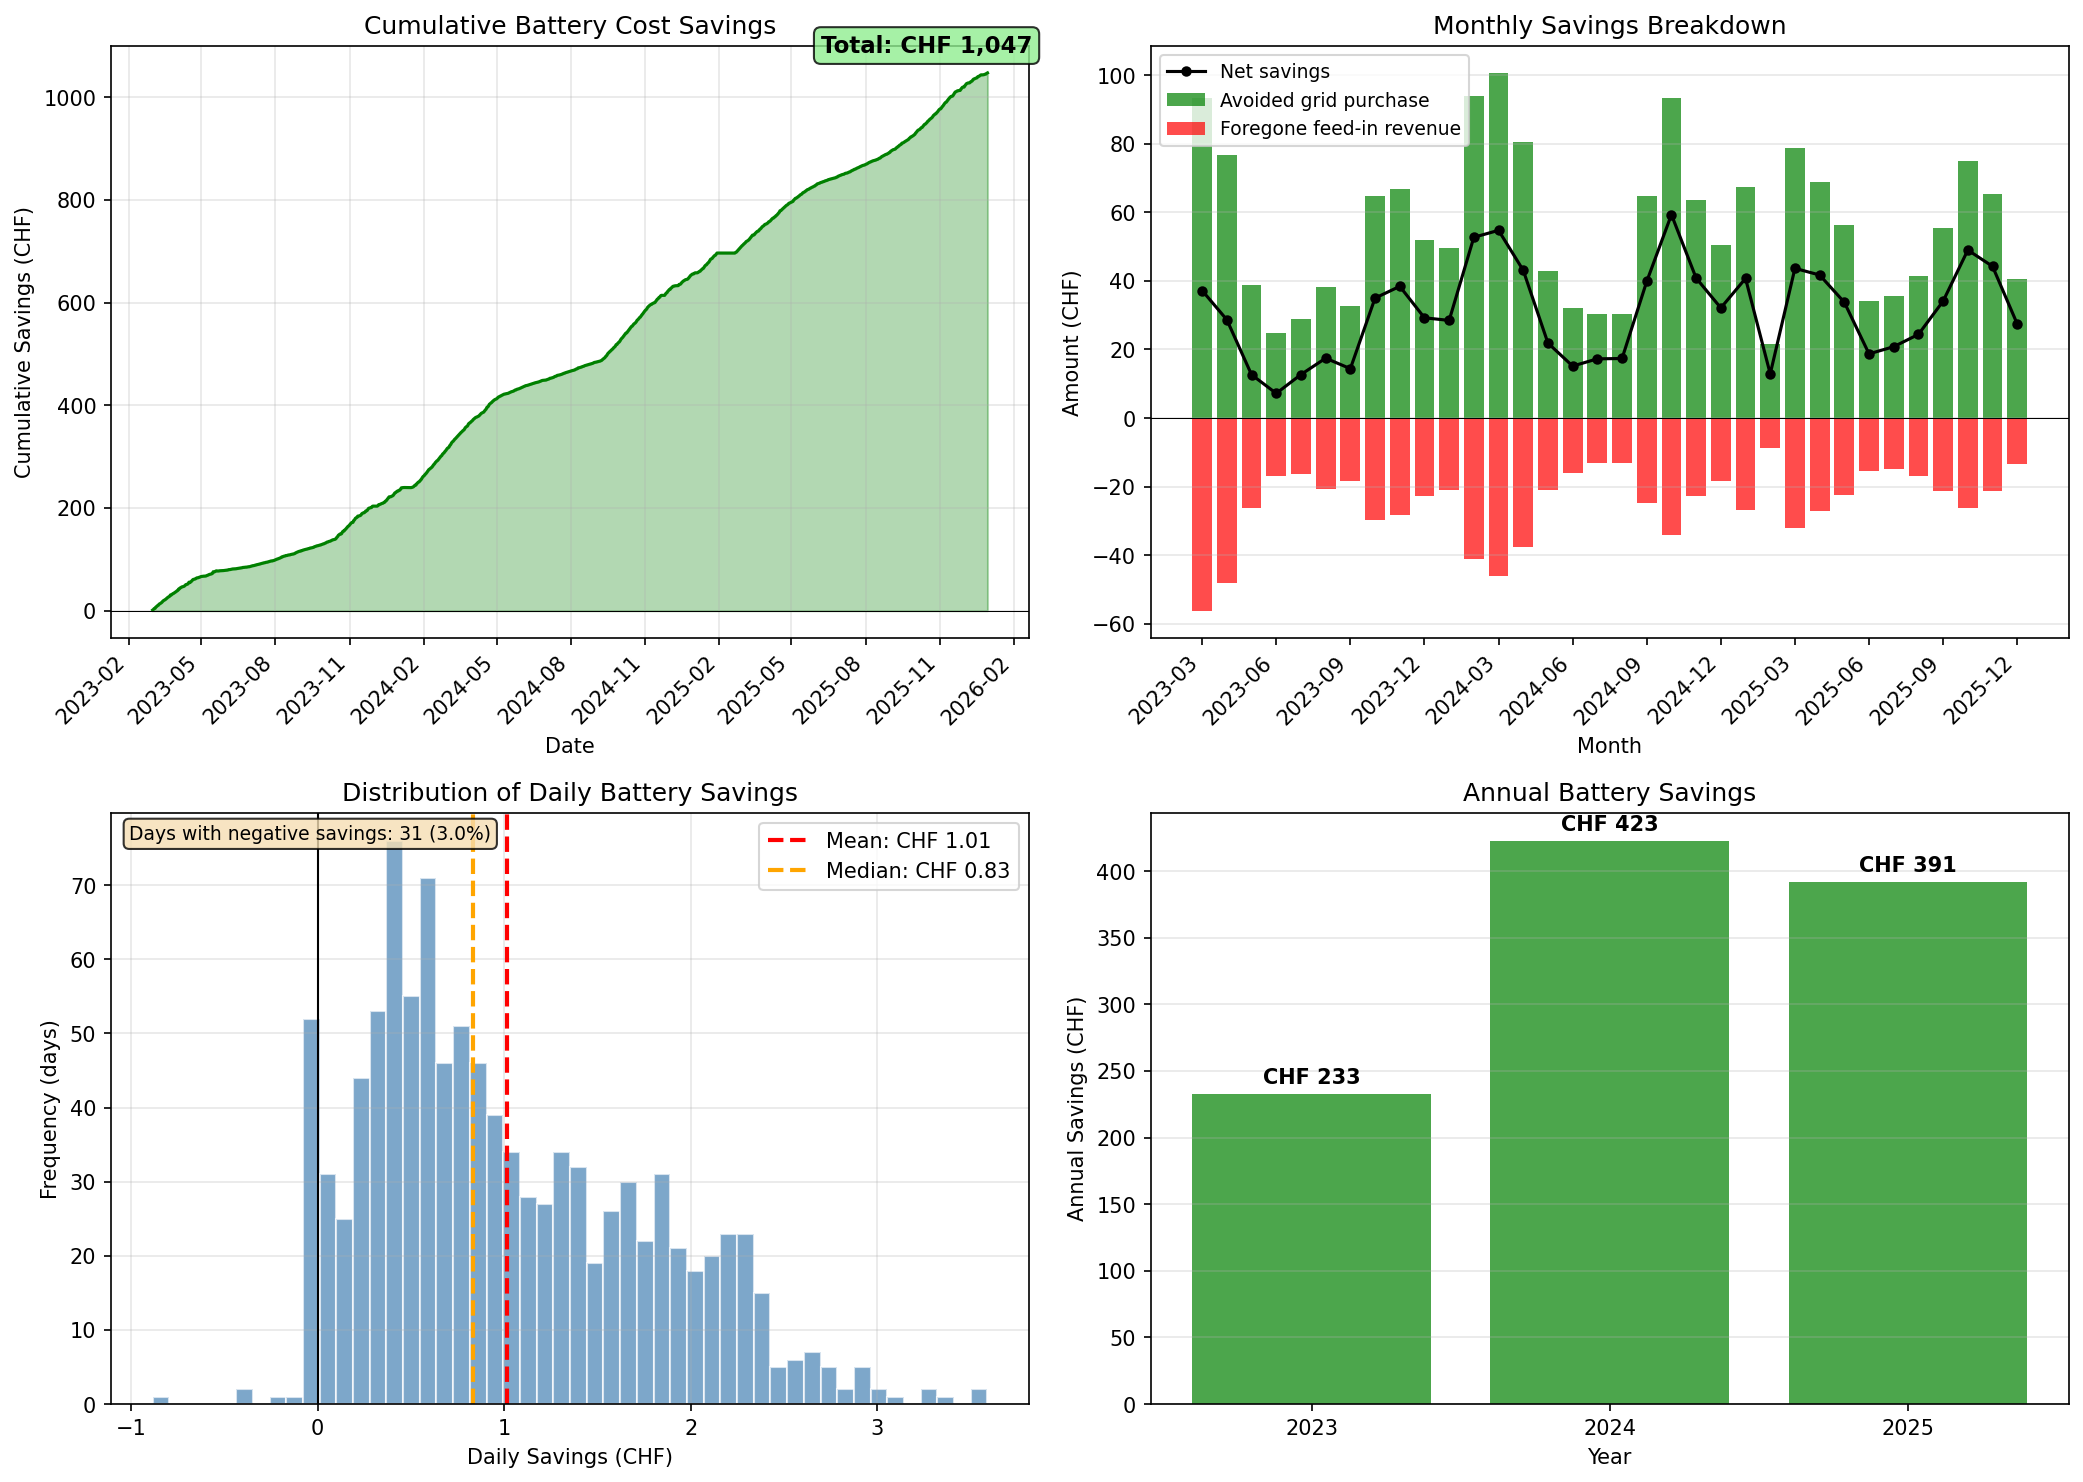
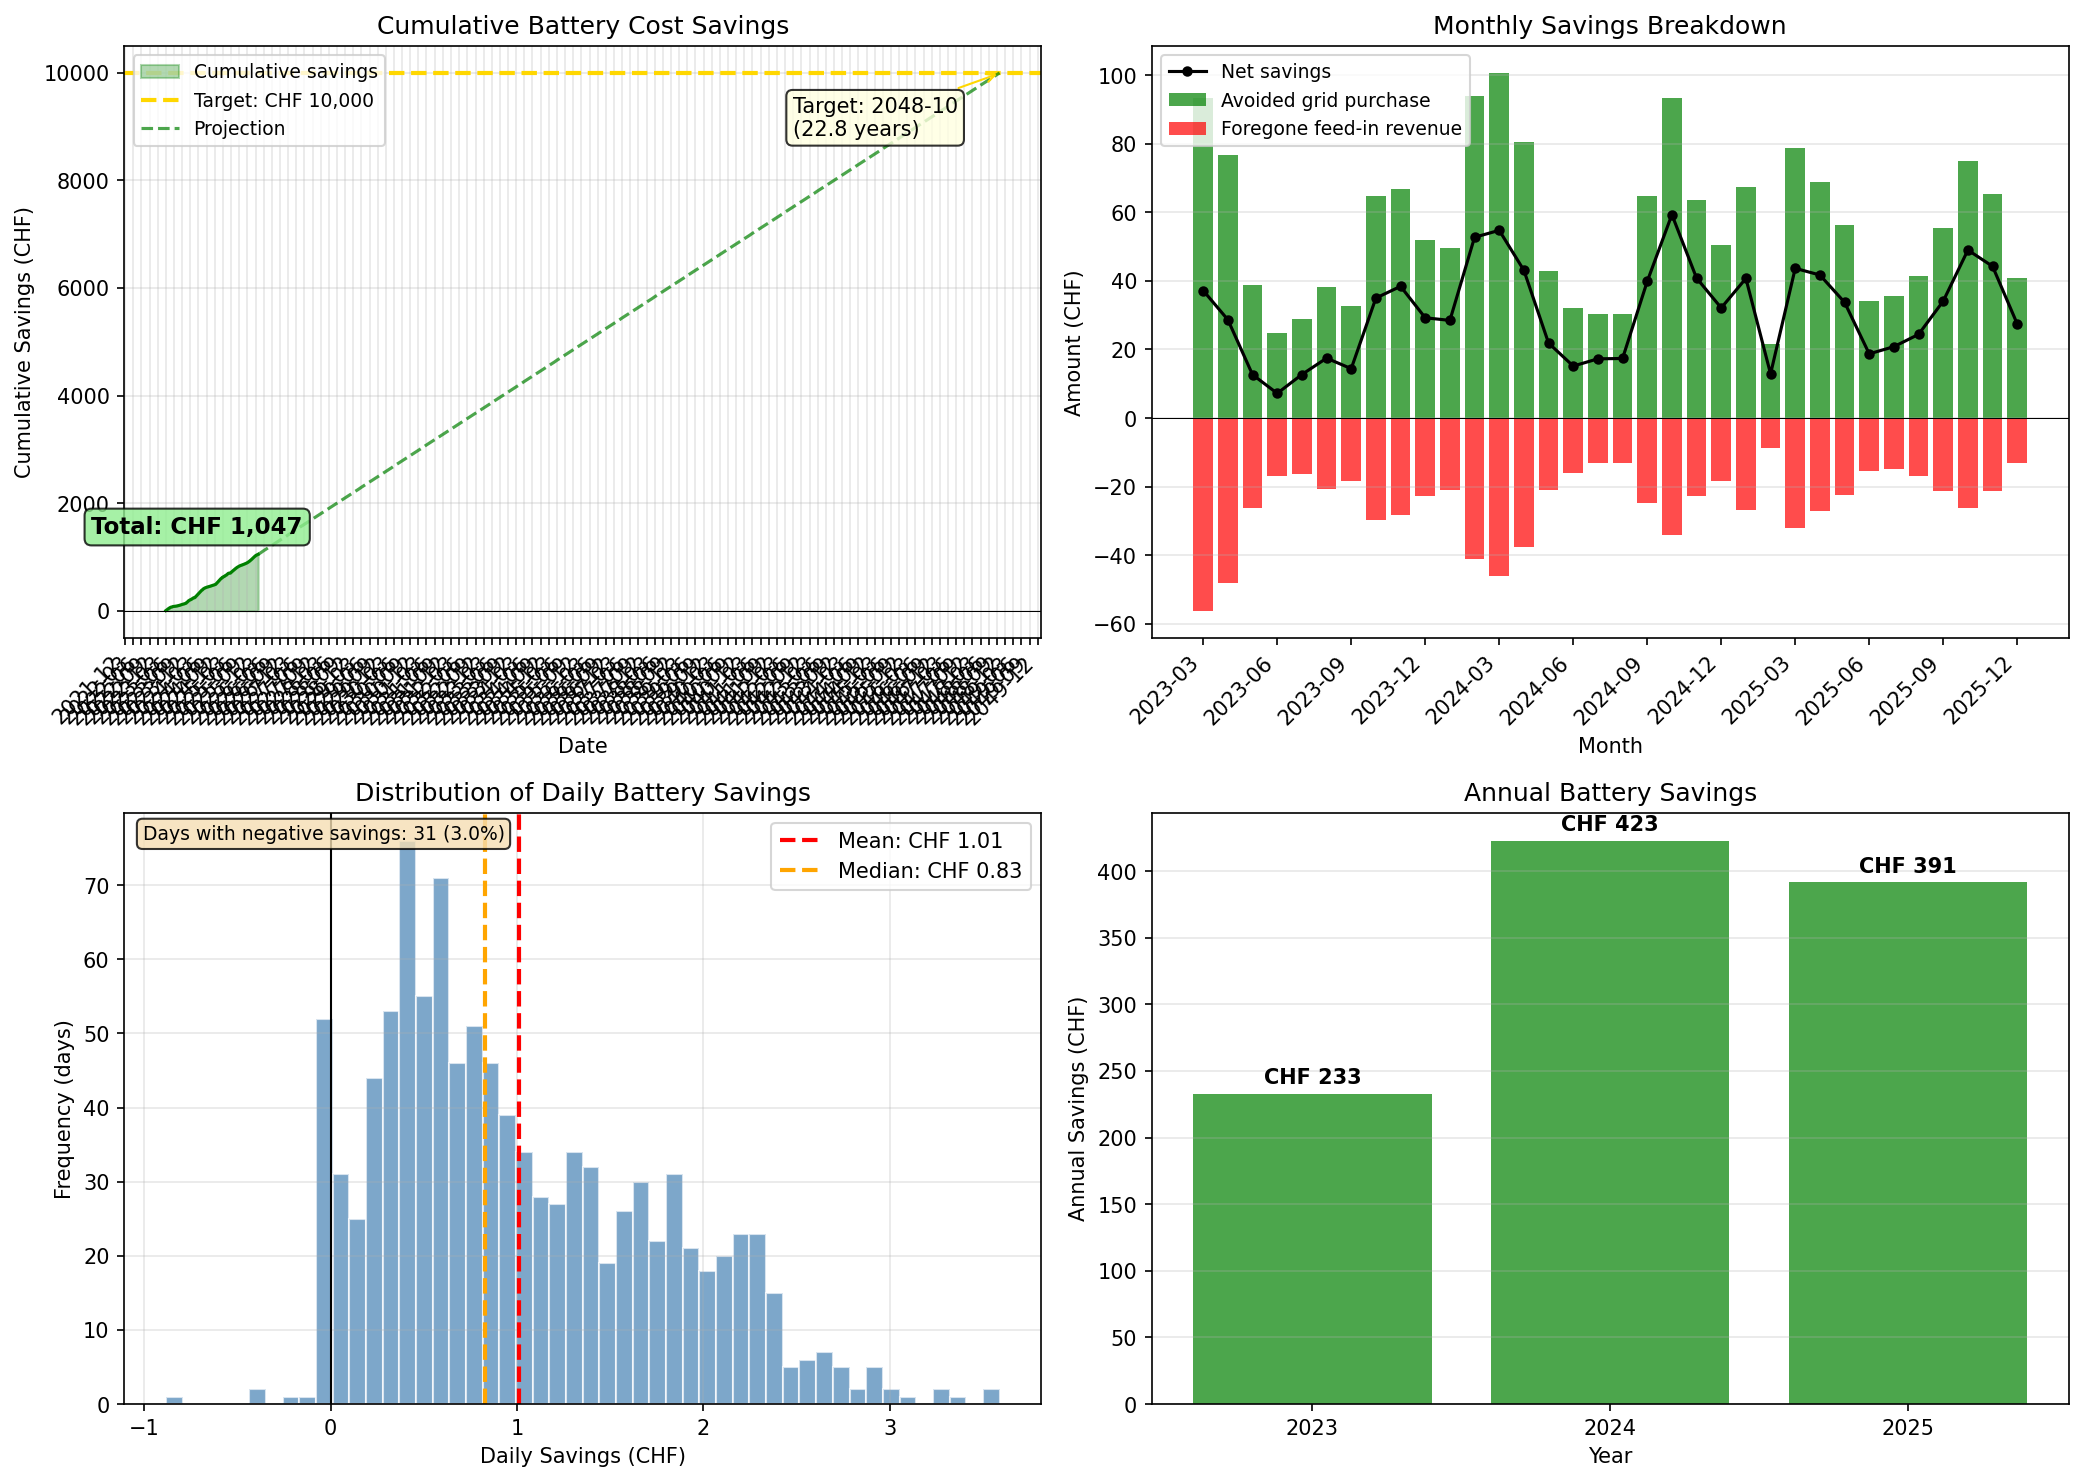
Add projection to CHF 10,000 savings target
- Add calculate_projection() function using 2025 data for current tariff rates
- Show projection in cumulative savings chart with target line and date
- Add "Projection to CHF 10,000" section in HTML report with:
  - Estimated target date and range (optimistic/pessimistic)
  - Projection assumptions and methodology notes
- Print projection summary in console output

Results (based on 2025 data, CHF 1.08/day avg):
- Target date: ~October 2048 (22.8 years from now)
- Range: May 2047 to June 2050

🤖 Generated with [Claude Code](https://claude.com/claude-code)

diff --git a/output/xtra/battery_savings/battery_savings_report.html b/output/xtra/battery_savings/battery_savings_report.html
@@ -23,7 +23,7 @@
 <body>
     <h1>Battery Cost Savings Analysis</h1>
 
-    <p><em>Generated: 2026-01-16 11:50</em></p>
+    <p><em>Generated: 2026-01-16 12:11</em></p>
 
     <div class="summary-box">
         <h3>Key Finding</h3>
@@ -111,6 +111,39 @@
         <tr><td>2024</td><td>CHF 422.78</td></tr>
         <tr><td>2025</td><td>CHF 391.46</td></tr>
     </table>
+
+    <h2>Projection to CHF 10,000</h2>
+
+    <div class="summary-box">
+        <h3>Estimated Target Date: October 2048</h3>
+        <p>Based on 2025 data (364 days), the battery is expected to reach
+        <strong>CHF 10,000</strong> in cumulative savings by
+        <strong>October 2048</strong>
+        (22.8 years from now).</p>
+        <p>Range: May 2047 (optimistic)
+        to June 2050 (pessimistic)</p>
+    </div>
+
+    <table>
+        <tr><th>Metric</th><th>Value</th></tr>
+        <tr><td>Current cumulative savings</td><td>CHF 1,047.15</td></tr>
+        <tr><td>Remaining to target</td><td>CHF 8,952.85</td></tr>
+        <tr><td>Average daily savings (recent)</td><td>CHF 1.08 ± 0.69</td></tr>
+        <tr><td>Days to target</td><td>8,325</td></tr>
+        <tr class="highlight"><td>Years to target</td><td>22.8</td></tr>
+        <tr><td>Estimated target date</td><td>2048-10</td></tr>
+        <tr><td>High tariff contribution</td><td>19.7%</td></tr>
+    </table>
+
+    <div class="methodology">
+        <h4>Projection Assumptions</h4>
+        <ul>
+            <li>Based on 2025 data to reflect current tariff structure</li>
+            <li>Assumes constant electricity usage patterns and tariff rates</li>
+            <li>Feed-in tariffs may decrease further, which would improve savings</li>
+            <li>Range estimates use ±2 standard errors on the daily savings rate</li>
+        </ul>
+    </div>
 
     <h2>Monthly Performance</h2>
 

diff --git a/src/xtra/battery_savings/battery_savings.py b/src/xtra/battery_savings/battery_savings.py
@@ -40,6 +40,9 @@ OUTPUT_DIR.mkdir(parents=True, exist_ok=True)
 # Tax rate on feed-in income
 FEEDIN_TAX_RATE = 0.30
 
+# Target savings for projection
+TARGET_SAVINGS_CHF = 10000
+
 # HKN bonus rates (CHF/kWh) - added to base feed-in rate
 # From CLAUDE.md: HKN bonus is 1.5 Rp until Dec 2024, then 2.5 Rp from Jan 2025
 HKN_BONUS = {
@@ -235,7 +238,106 @@ def aggregate_daily_totals(df):
     return daily
 
 
-def create_visualizations(daily):
+def calculate_projection(daily, daily_by_tariff):
+    """
+    Project when savings will reach the target amount.
+
+    Uses recent data (2025+) to estimate savings rate under current tariffs,
+    accounting for the high/low tariff distribution.
+    """
+    print(f"Calculating projection to CHF {TARGET_SAVINGS_CHF:,}...")
+
+    # Current cumulative savings
+    current_savings = daily['battery_savings_chf'].sum()
+    remaining = TARGET_SAVINGS_CHF - current_savings
+
+    if remaining <= 0:
+        print(f"  Target already reached!")
+        return {
+            'current_savings': current_savings,
+            'target_savings': TARGET_SAVINGS_CHF,
+            'remaining': 0,
+            'target_reached': True,
+            'target_date': daily.index.max(),
+        }
+
+    # Use 2025 data for projection (reflects current tariff structure)
+    recent_data = daily[daily.index.year >= 2025]
+    if len(recent_data) < 30:
+        # Fall back to last 365 days if not enough 2025 data
+        recent_data = daily.iloc[-365:]
+        projection_basis = "last 365 days"
+    else:
+        projection_basis = "2025 data"
+
+    # Calculate average daily savings rate from recent period
+    avg_daily_savings = recent_data['battery_savings_chf'].mean()
+
+    # Calculate tariff breakdown from recent period
+    recent_by_tariff = daily_by_tariff[daily_by_tariff['date'].dt.year >= 2025]
+    if len(recent_by_tariff) < 30:
+        recent_by_tariff = daily_by_tariff.iloc[-730:]  # Last 365 days × 2 tariff types
+
+    tariff_breakdown = recent_by_tariff.groupby('tariff_type').agg({
+        'battery_savings_chf': 'sum',
+        'battery_discharging_kwh': 'sum',
+        'battery_charging_kwh': 'sum',
+    })
+
+    # Days to target
+    days_to_target = remaining / avg_daily_savings if avg_daily_savings > 0 else float('inf')
+    years_to_target = days_to_target / 365.25
+
+    # Target date
+    last_date = daily.index.max()
+    target_date = last_date + pd.Timedelta(days=days_to_target)
+
+    # Calculate confidence interval using recent data variability
+    daily_std = recent_data['battery_savings_chf'].std()
+    # Using CLT: std of mean over N days ≈ std / sqrt(N)
+    # For 95% CI on the time estimate
+    savings_rate_se = daily_std / np.sqrt(len(recent_data))
+
+    # Pessimistic and optimistic estimates (±2 SE on savings rate)
+    rate_low = max(0.01, avg_daily_savings - 2 * savings_rate_se)
+    rate_high = avg_daily_savings + 2 * savings_rate_se
+
+    days_pessimistic = remaining / rate_low if rate_low > 0 else float('inf')
+    days_optimistic = remaining / rate_high if rate_high > 0 else float('inf')
+
+    target_date_pessimistic = last_date + pd.Timedelta(days=days_pessimistic)
+    target_date_optimistic = last_date + pd.Timedelta(days=days_optimistic)
+
+    projection = {
+        'current_savings': current_savings,
+        'target_savings': TARGET_SAVINGS_CHF,
+        'remaining': remaining,
+        'target_reached': False,
+        'projection_basis': projection_basis,
+        'projection_days': len(recent_data),
+        'avg_daily_savings': avg_daily_savings,
+        'daily_savings_std': daily_std,
+        'days_to_target': days_to_target,
+        'years_to_target': years_to_target,
+        'target_date': target_date,
+        'target_date_optimistic': target_date_optimistic,
+        'target_date_pessimistic': target_date_pessimistic,
+        'tariff_breakdown': tariff_breakdown,
+        'high_tariff_pct': tariff_breakdown.loc['high', 'battery_savings_chf'] / tariff_breakdown['battery_savings_chf'].sum() * 100 if 'high' in tariff_breakdown.index else 0,
+    }
+
+    print(f"  Projection basis: {projection_basis} ({len(recent_data)} days)")
+    print(f"  Current savings: CHF {current_savings:,.2f}")
+    print(f"  Remaining to target: CHF {remaining:,.2f}")
+    print(f"  Average daily savings: CHF {avg_daily_savings:.2f} ± {daily_std:.2f}")
+    print(f"  Days to target: {days_to_target:,.0f} ({years_to_target:.1f} years)")
+    print(f"  Estimated target date: {target_date.strftime('%Y-%m')}")
+    print(f"  Range: {target_date_optimistic.strftime('%Y-%m')} to {target_date_pessimistic.strftime('%Y-%m')}")
+
+    return projection
+
+
+def create_visualizations(daily, projection=None):
     """Create visualization of battery cost savings."""
     print("Creating visualizations...")
 
@@ -263,6 +365,31 @@ def create_visualizations(daily):
                  xytext=(-80, 10), textcoords='offset points',
                  fontsize=11, fontweight='bold',
                  bbox=dict(boxstyle='round', facecolor='lightgreen', alpha=0.8))
+
+    # Add projection to target if provided
+    if projection and not projection.get('target_reached', False):
+        target_date = projection['target_date']
+        target_savings = projection['target_savings']
+
+        # Extend the x-axis to include projection
+        ax1.axhline(y=target_savings, color='gold', linestyle='--', linewidth=2,
+                    label=f'Target: CHF {target_savings:,}')
+
+        # Add projection line
+        proj_dates = pd.date_range(daily.index[-1], target_date, freq='M')
+        proj_savings = np.linspace(total_savings, target_savings, len(proj_dates))
+        ax1.plot(proj_dates, proj_savings, 'g--', linewidth=1.5, alpha=0.7,
+                 label='Projection')
+
+        # Add target date annotation
+        ax1.annotate(f'Target: {target_date.strftime("%Y-%m")}\n({projection["years_to_target"]:.1f} years)',
+                     xy=(target_date, target_savings),
+                     xytext=(-100, -30), textcoords='offset points',
+                     fontsize=10,
+                     arrowprops=dict(arrowstyle='->', color='gold'),
+                     bbox=dict(boxstyle='round', facecolor='lightyellow', alpha=0.8))
+
+        ax1.legend(loc='upper left', fontsize=9)
 
     # Panel 2: Monthly savings breakdown
     ax2 = axes[0, 1]
@@ -353,7 +480,7 @@ def create_visualizations(daily):
     return fig_path
 
 
-def generate_report(daily, daily_by_tariff):
+def generate_report(daily, daily_by_tariff, projection=None):
     """Generate HTML summary report."""
     print("Generating report...")
 
@@ -508,7 +635,46 @@ def generate_report(daily, daily_by_tariff):
         html += f"        <tr><td>{year.year}</td><td>CHF {savings:,.2f}</td></tr>\n"
 
     html += f"""    </table>
+"""
 
+    # Add projection section if available
+    if projection and not projection.get('target_reached', False):
+        html += f"""
+    <h2>Projection to CHF {projection['target_savings']:,}</h2>
+
+    <div class="summary-box">
+        <h3>Estimated Target Date: {projection['target_date'].strftime('%B %Y')}</h3>
+        <p>Based on {projection['projection_basis']} ({projection['projection_days']} days), the battery is expected to reach
+        <strong>CHF {projection['target_savings']:,}</strong> in cumulative savings by
+        <strong>{projection['target_date'].strftime('%B %Y')}</strong>
+        ({projection['years_to_target']:.1f} years from now).</p>
+        <p>Range: {projection['target_date_optimistic'].strftime('%B %Y')} (optimistic)
+        to {projection['target_date_pessimistic'].strftime('%B %Y')} (pessimistic)</p>
+    </div>
+
+    <table>
+        <tr><th>Metric</th><th>Value</th></tr>
+        <tr><td>Current cumulative savings</td><td>CHF {projection['current_savings']:,.2f}</td></tr>
+        <tr><td>Remaining to target</td><td>CHF {projection['remaining']:,.2f}</td></tr>
+        <tr><td>Average daily savings (recent)</td><td>CHF {projection['avg_daily_savings']:.2f} ± {projection['daily_savings_std']:.2f}</td></tr>
+        <tr><td>Days to target</td><td>{projection['days_to_target']:,.0f}</td></tr>
+        <tr class="highlight"><td>Years to target</td><td>{projection['years_to_target']:.1f}</td></tr>
+        <tr><td>Estimated target date</td><td>{projection['target_date'].strftime('%Y-%m')}</td></tr>
+        <tr><td>High tariff contribution</td><td>{projection['high_tariff_pct']:.1f}%</td></tr>
+    </table>
+
+    <div class="methodology">
+        <h4>Projection Assumptions</h4>
+        <ul>
+            <li>Based on {projection['projection_basis']} to reflect current tariff structure</li>
+            <li>Assumes constant electricity usage patterns and tariff rates</li>
+            <li>Feed-in tariffs may decrease further, which would improve savings</li>
+            <li>Range estimates use ±2 standard errors on the daily savings rate</li>
+        </ul>
+    </div>
+"""
+
+    html += f"""
     <h2>Monthly Performance</h2>
 
     <table>
@@ -576,11 +742,14 @@ def main():
     daily_by_tariff.to_csv(csv_path, index=False)
     print(f"Saved: {csv_path}")
 
+    # Calculate projection to CHF 10,000
+    projection = calculate_projection(daily, daily_by_tariff)
+
     # Create visualizations
-    create_visualizations(daily)
+    create_visualizations(daily, projection)
 
     # Generate report
-    generate_report(daily, daily_by_tariff)
+    generate_report(daily, daily_by_tariff, projection)
 
     # Print summary
     print("\n" + "=" * 60)
@@ -598,6 +767,14 @@ def main():
     print(f"\nBy tariff:")
     print(f"  Hochtarif:   CHF {tariff_summary['high']:,.2f}")
     print(f"  Niedertarif: CHF {tariff_summary['low']:,.2f}")
+
+    # Projection
+    if not projection.get('target_reached', False):
+        print(f"\nProjection to CHF {projection['target_savings']:,}:")
+        print(f"  Avg daily savings (recent): CHF {projection['avg_daily_savings']:.2f}")
+        print(f"  Years to target: {projection['years_to_target']:.1f}")
+        print(f"  Target date: {projection['target_date'].strftime('%Y-%m')}")
+        print(f"  Range: {projection['target_date_optimistic'].strftime('%Y-%m')} to {projection['target_date_pessimistic'].strftime('%Y-%m')}")
     print("=" * 60)
 
 
